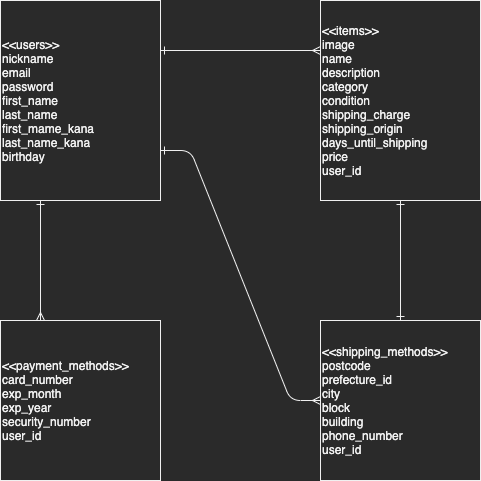
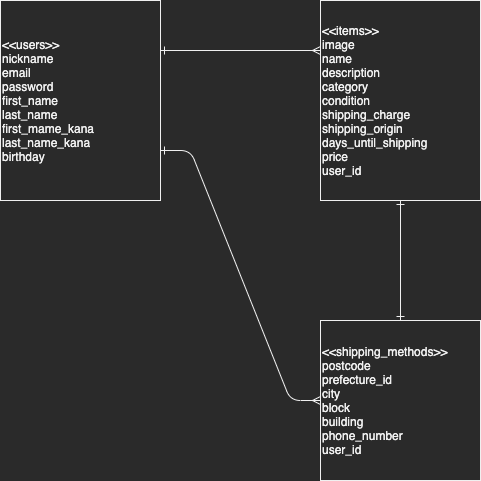
テーブル設計_sub5

diff --git a/README.md b/README.md
@@ -3,51 +3,53 @@
 
 ## usersテーブル
 
-| Column | Type | Presence | Options |
-|  ---  |  ---  |  ---  |  ---  |
-| nickname | string | true | --- |
-| email | string | true | unique:true |
-| password | string | true | length:{min:6} match(/[a-z\d]{6,}/i) | 
-| password_confirmation | string | true | length:{min:6} match(/[a-z\d]{6,}/i) | 
-| first_name | string | true| match(/\A[ぁ-んァ-ン一-龥]+\z/) |
-| last_name | string | true | match(/\A[ぁ-んァ-ン一-龥]+\z/) |
-| first_name_kana | string | true | match(/\A[ァ-ン]+\z/) |
-| last_name_kana | string | true | match(/\A[ァ-ン]+\z/) |
-| birthday | date | true | --- |
+| Column | Type | Options |
+|  ---  |  ---  |  ---  |
+| nickname | string | null: false |
+| email | string | null: false, unique: true |
+| password | string | null: false | 
+| password_confirmation | string | null: false | 
+| first_name | string | null: false |
+| last_name | string | null: false |
+| first_name_kana | string | null: false |
+| last_name_kana | string | null: false |
+| birthday | date | null: false |
+
+### Association
+- has_many :items
+- has_many :shipping_methods
 
 ## itemsテーブル
 
-| Column | Type | Presence | Options |
-|  ---  |  ---  |  ---  |  ---  |
-| image | binary | true | ActiveStorage |
-| name | string | true | --- |
-| description | text | true | --- |
-| category | integer | true | --- |
-| condition | integer | true | --- |
-| shipping_charge | integer | true | --- |
-| shipping_origin | integer | true | --- |
-| days_until_shipping | integer | true | --- |
-| price | integer | true | match([3-9]{3}~[0-9]{7}) |
-| user_id | integer | true | --- |
+| Column | Type | Options |
+|  ---  |  ---  |  ---  |
+| image | binary | null: false |
+| name | string | null: false |
+| description | text | null: false |
+| category | integer | null: false |
+| condition | integer | null: false |
+| shipping_charge | integer | null: false |
+| shipping_origin | integer | null: false |
+| days_until_shipping | integer | null: false |
+| price | integer | null: false |
+| user_id | references | null: false, foreign_key: true|
 
-## payment_methodsテーブル
-
-| Column | Type | Presence | Options |
-|  ---  |  ---  |  ---  |  ---  |
-| card_number | integer | true | match([0-9]{12}) |
-| exp_month | integer | true | match([0-9]{2}) |
-| exp_year | integer | true | match([0-9]{2}) |
-| security_number | integer | true | match([0-9]{3}) |
-| user_id | integer | true | --- |
+### Association
+- belongs_to :user
+- has_one :shipping_method
 
 ## shipping_methodsテーブル
 
-| Column | Type | Presence | Options |
-|  ---  |  ---  |  ---  |  ---  |
-| postcode | integer | true | match(/\A\d{3}[-]\d{2}\z/) |
-| prefecture_id | integer | true | --- |
-| city | string | true | --- |
-| block | string | true | --- |
-| building | string | false | --- |
-| phone_number | integer | true |  match(/\A\d{11}\z/) |
-| user_id | integer | true | --- |
+| Column | Type | Options |
+|  ---  |  ---  |  ---  |
+| postcode | integer | null: false |
+| prefecture_id | integer | null: false |
+| city | string | null: false |
+| block | string | null: false |
+| building | string | --- |
+| phone_number | integer | null: false |
+| user_id | references | null: false, foreign_key: true|
+
+### Association
+- belongs_to :user
+- belongs_to :item
